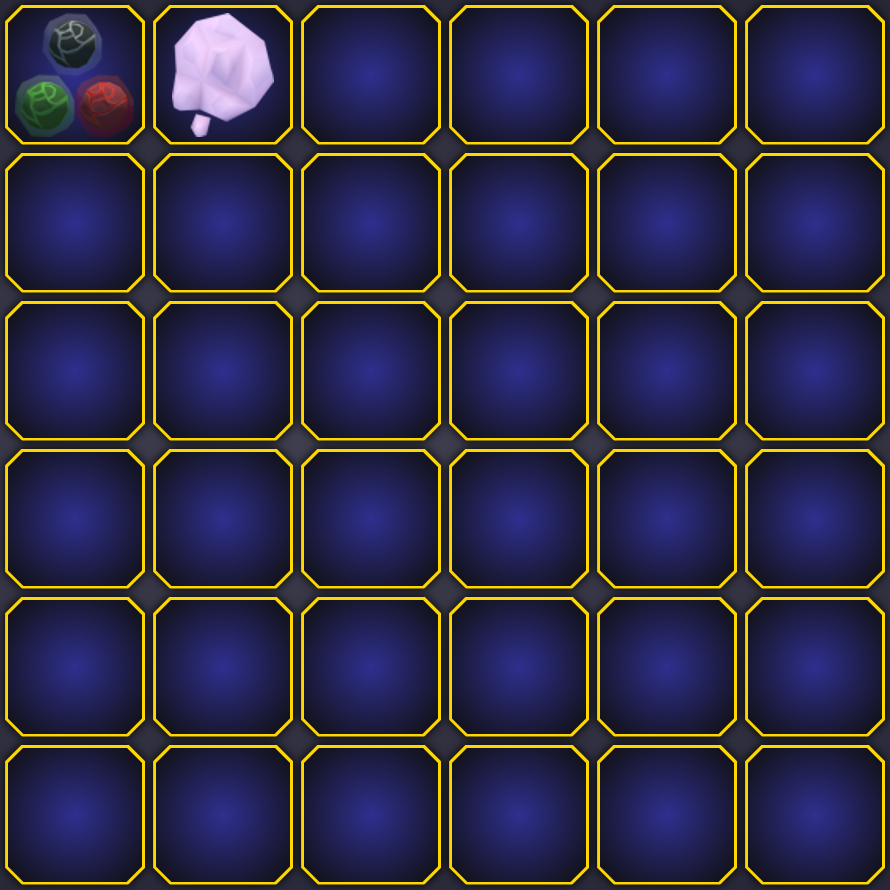
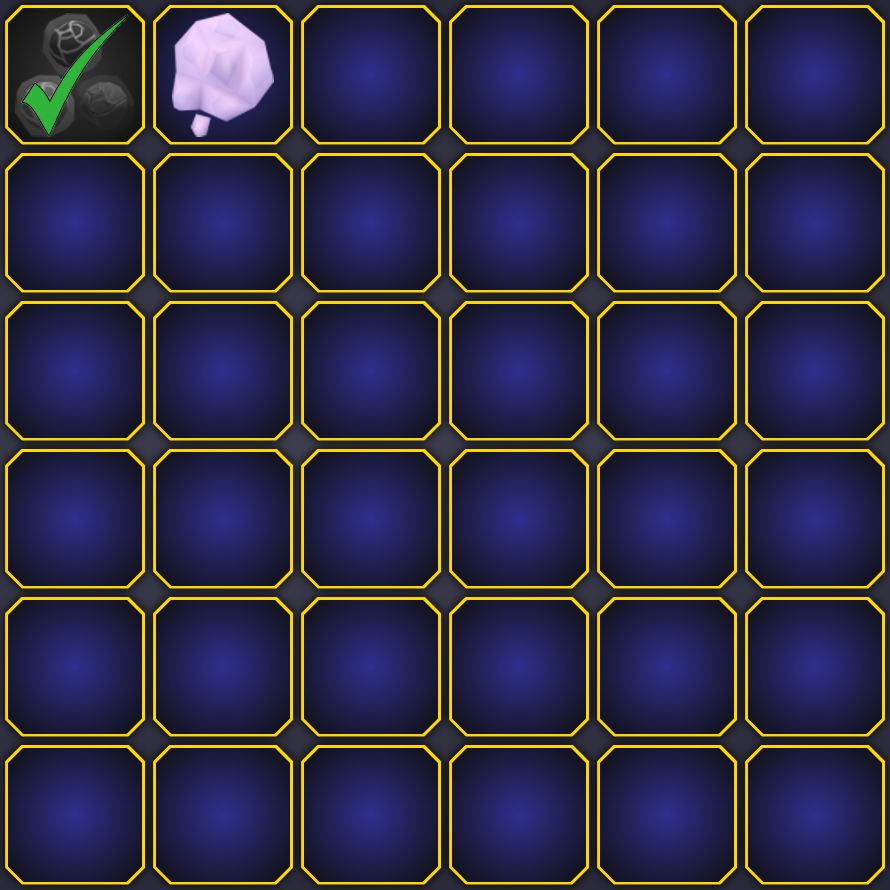
Fix marker position.

Changed region(s): [[0.0, 0.0, 0.182, 0.182]]

diff --git a/Board/Board/Markers/TileUtilities.cs b/Board/Board/Markers/TileUtilities.cs
@@ -41,9 +41,11 @@ internal static class TileUtilities
     {
         int width = Math.Max(background.Width, foreground.Width);
         int height = Math.Max(background.Height, foreground.Height);
+        int x = width / 2 - foreground.Width / 2;
+        int y = height / 2 - foreground.Height / 2;
 
         background.Mutate(b => b.Pad(width, height));
-        background.Mutate(b => b.DrawImage(foreground, 1));
+        background.Mutate(b => b.DrawImage(foreground, new Point(x, y), 1));
     }
 
     public static void AddTaskToTile(Image tile, Image task)
